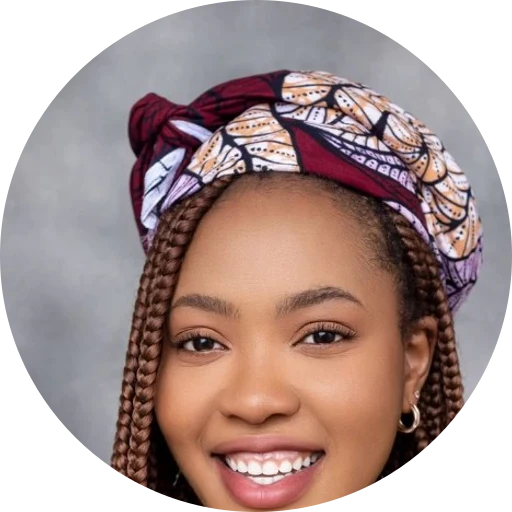
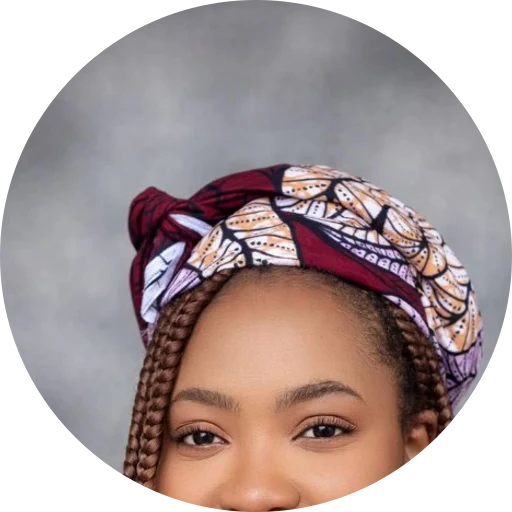
feat(dona): show Captain Dona portrait with Affisell badge in widgets
Add badge-aware portrait assets and use them in FAB and chat headers so Dona displays her CAPTAIN DONA · AFFISELL identity, not a face-only crop.

diff --git a/components/dona/DonaCaptainWidget.tsx b/components/dona/DonaCaptainWidget.tsx
@@ -165,9 +165,10 @@ export function DonaCaptainWidget() {
             <div className="flex shrink-0 items-start justify-between border-b border-violet-500/30 bg-[#1A1A3D] px-4 py-3 md:rounded-t-2xl">
               <div className="flex min-w-0 items-start gap-2.5">
                 <DonaAvatarImage
-                  className="mt-0.5 size-9 shrink-0 rounded-full object-cover ring-2 ring-black/80"
+                  className="mt-0.5 h-[3.75rem] w-[2.65rem] shrink-0 rounded-xl object-cover object-top ring-2 ring-violet-400/50 shadow-[0_0_14px_rgba(124,58,237,0.3)]"
                   alt="Captain Dona"
                   loading="eager"
+                  variant="portrait"
                 />
                 <div>
                   <p className="text-sm font-semibold text-white">{headerTitle}</p>
@@ -203,9 +204,10 @@ export function DonaCaptainWidget() {
             <div ref={scrollRef} className="flex min-h-0 flex-1 flex-col gap-3 overflow-y-auto p-4">
               <div className="mr-auto max-w-[90%] rounded-2xl rounded-bl-sm border border-white/10 bg-[#1A1A3D] px-4 py-2.5 text-sm text-white">
                 <DonaAvatarImage
-                  className="mb-2 size-7 rounded-full object-cover ring-1 ring-black/60"
+                  className="mb-2 h-11 w-8 rounded-lg object-cover object-top ring-1 ring-violet-400/40"
                   alt=""
                   loading="lazy"
+                  variant="portrait"
                 />
                 {welcome}
               </div>
@@ -246,9 +248,10 @@ export function DonaCaptainWidget() {
                               className="mr-auto max-w-[90%] rounded-2xl rounded-bl-sm border border-white/10 bg-[#1A1A3D] px-4 py-2.5 text-sm text-white"
                             >
                               <DonaAvatarImage
-                                className="mb-2 size-7 rounded-full object-cover ring-1 ring-black/60"
+                                className="mb-2 size-7 rounded-full object-cover object-top ring-1 ring-violet-400/30"
                                 alt=""
                                 loading="lazy"
+                                variant="circle"
                               />
                               {part.text}
                             </div>
@@ -308,13 +311,14 @@ export function DonaCaptainWidget() {
         <button
           type="button"
           onClick={() => setIsOpen(true)}
-          className="affisell-dona-fab fixed z-[109] flex size-14 items-center justify-center overflow-hidden rounded-full border-2 border-black bg-[#0E0E2C] shadow-[0_0_18px_rgba(124,58,237,0.35)] transition hover:border-violet-400 max-md:active:scale-95"
+          className="affisell-dona-fab affisell-dona-fab-portrait fixed z-[109] flex h-[4.75rem] w-[3.35rem] items-stretch justify-center overflow-hidden rounded-2xl border-2 border-violet-400/70 bg-[#0E0E2C] shadow-[0_0_22px_rgba(124,58,237,0.45)] transition hover:border-violet-300 max-md:active:scale-95"
           aria-label={openFabAria}
         >
           <DonaAvatarImage
-            className="size-full rounded-full object-cover"
+            className="size-full object-cover object-top"
             alt="Captain Dona"
             loading="lazy"
+            variant="portrait"
           />
           <span className="absolute -right-1 -top-1 rounded-full bg-black px-1.5 py-0.5 text-[8px] font-bold uppercase tracking-wide text-white">
             {fabBadge}

diff --git a/components/dona/dona-avatar-image.tsx b/components/dona/dona-avatar-image.tsx
@@ -6,21 +6,48 @@ import { cn } from "@/lib/utils"
 
 import donaAvatarCircleAsset from "../../public/dona-avatar-circle.webp"
 import donaAvatarCircle2xAsset from "../../public/dona-avatar-circle@2x.webp"
+import donaAvatarPortraitAsset from "../../public/dona-avatar-portrait.webp"
+import donaAvatarPortrait2xAsset from "../../public/dona-avatar-portrait@2x.webp"
 
 function bundledAssetSrc(asset: string | { src: string }): string {
   return typeof asset === "string" ? asset : asset.src
 }
 
-/** Bundled + public path — works even when proxy skipped static files before fix. */
+/** Face-only — chat micro bubbles. */
 export const DONA_AVATAR_CIRCLE_SRC = bundledAssetSrc(donaAvatarCircleAsset)
 export const DONA_AVATAR_CIRCLE_2X_SRC = bundledAssetSrc(donaAvatarCircle2xAsset)
 export const DONA_AVATAR_CIRCLE_SRCSET = `${DONA_AVATAR_CIRCLE_SRC} 1x, ${DONA_AVATAR_CIRCLE_2X_SRC} 2x`
+
+/** Full portrait with CAPTAIN DONA · AFFISELL badge — FAB + headers. */
+export const DONA_AVATAR_PORTRAIT_SRC = bundledAssetSrc(donaAvatarPortraitAsset)
+export const DONA_AVATAR_PORTRAIT_2X_SRC = bundledAssetSrc(donaAvatarPortrait2xAsset)
+export const DONA_AVATAR_PORTRAIT_SRCSET = `${DONA_AVATAR_PORTRAIT_SRC} 1x, ${DONA_AVATAR_PORTRAIT_2X_SRC} 2x`
+
+export type DonaAvatarVariant = "portrait" | "circle"
+
+const VARIANT_ASSETS: Record<
+  DonaAvatarVariant,
+  { src: string; srcSet: string; warnLabel: string }
+> = {
+  portrait: {
+    src: DONA_AVATAR_PORTRAIT_SRC,
+    srcSet: DONA_AVATAR_PORTRAIT_SRCSET,
+    warnLabel: "portrait asset missing — emoji fallback",
+  },
+  circle: {
+    src: DONA_AVATAR_CIRCLE_SRC,
+    srcSet: DONA_AVATAR_CIRCLE_SRCSET,
+    warnLabel: "circle asset missing — emoji fallback",
+  },
+}
 
 type DonaAvatarImageProps = {
   className?: string
   alt?: string
   loading?: "lazy" | "eager"
   fallbackClassName?: string
+  /** portrait = badge visible (default) · circle = face-only micro bubbles */
+  variant?: DonaAvatarVariant
 }
 
 /** Avatar with 💜 fallback when the asset fails to load. */
@@ -29,8 +56,10 @@ export function DonaAvatarImage({
   alt = "",
   loading = "lazy",
   fallbackClassName,
+  variant = "portrait",
 }: DonaAvatarImageProps) {
   const [failed, setFailed] = useState(false)
+  const assets = VARIANT_ASSETS[variant]
 
   if (failed) {
     return (
@@ -46,14 +75,14 @@ export function DonaAvatarImage({
   return (
     // eslint-disable-next-line @next/next/no-img-element -- bundled static asset + onError fallback
     <img
-      src={DONA_AVATAR_CIRCLE_SRC}
-      srcSet={DONA_AVATAR_CIRCLE_SRCSET}
+      src={assets.src}
+      srcSet={assets.srcSet}
       alt={alt}
       loading={loading}
       decoding="async"
       className={className}
       onError={() => {
-        console.warn("[dona-avatar] circle asset missing — emoji fallback")
+        console.warn("[dona-avatar]", assets.warnLabel)
         setFailed(true)
       }}
     />

diff --git a/components/dona/DonaPublicWidget.tsx b/components/dona/DonaPublicWidget.tsx
@@ -115,9 +115,10 @@ export function DonaPublicWidget() {
             <div className="flex shrink-0 items-center justify-between border-b border-white/10 bg-[#1A1A3D] px-4 py-3 md:rounded-t-2xl">
               <div className="flex min-w-0 items-center gap-2">
                 <DonaAvatarImage
-                  className="size-8 shrink-0 rounded-full object-cover ring-1 ring-violet-400/40"
+                  className="h-14 w-10 shrink-0 rounded-xl object-cover object-top ring-1 ring-violet-400/40 shadow-[0_0_12px_rgba(124,58,237,0.25)]"
                   alt="Dona"
                   loading="eager"
+                  variant="portrait"
                 />
                 <div>
                   <p className="text-sm font-semibold text-white">{copy.headerTitle}</p>
@@ -139,9 +140,10 @@ export function DonaPublicWidget() {
             <div ref={scrollRef} className="flex min-h-0 flex-1 flex-col gap-3 overflow-y-auto p-4">
               <div className="mr-auto max-w-[85%] rounded-2xl rounded-bl-sm border border-white/10 bg-[#1A1A3D] px-4 py-2.5 text-sm leading-relaxed text-white">
                 <DonaAvatarImage
-                  className="mb-2 size-7 rounded-full object-cover"
+                  className="mb-2 h-11 w-8 rounded-lg object-cover object-top ring-1 ring-violet-400/30"
                   alt=""
                   loading="lazy"
+                  variant="portrait"
                 />
                 {welcome}
                 <span className="mt-1 block text-[10px] text-white/40">{formatDonaTime(new Date())}</span>
@@ -199,13 +201,14 @@ export function DonaPublicWidget() {
         <button
           type="button"
           onClick={() => setIsOpen(true)}
-          className="affisell-dona-fab fixed z-[99] flex size-14 items-center justify-center overflow-hidden rounded-full border-2 border-white bg-[#7C3AED] shadow-xl ring-2 ring-violet-200 transition hover:scale-105 hover:bg-violet-500 max-md:active:scale-95"
+          className="affisell-dona-fab affisell-dona-fab-portrait fixed z-[99] flex h-[4.75rem] w-[3.35rem] items-stretch justify-center overflow-hidden rounded-2xl border-2 border-white bg-[#7C3AED] shadow-xl ring-2 ring-violet-200 transition hover:scale-105 hover:bg-violet-500 max-md:active:scale-95"
           aria-label={copy.openFabAria}
         >
           <DonaAvatarImage
-            className="size-full rounded-full object-cover"
+            className="size-full object-cover object-top"
             alt="Dona"
             loading="lazy"
+            variant="portrait"
           />
           <span
             className="absolute bottom-1 right-1 size-3 animate-pulse rounded-full border-2 border-white bg-green-400"

diff --git a/components/dona/dona-chat-ui.tsx b/components/dona/dona-chat-ui.tsx
@@ -64,7 +64,12 @@ export function DonaUserBubble({ text }: { text: string }) {
 export function DonaAssistantBubble({ text }: { text: string }) {
   return (
     <div className="mr-auto max-w-[85%] rounded-2xl rounded-bl-sm border border-white/10 bg-[#1A1A3D] px-4 py-2.5 text-sm leading-relaxed text-white">
-      <DonaAvatarImage className="mb-2 size-7 rounded-full object-cover" alt="" loading="lazy" />
+      <DonaAvatarImage
+        className="mb-2 size-7 rounded-full object-cover object-top"
+        alt=""
+        loading="lazy"
+        variant="circle"
+      />
       <DonaLinkifiedText text={text} />
       <span className="mt-1 block text-[10px] text-white/40">{formatDonaTime(new Date())}</span>
     </div>
@@ -78,7 +83,12 @@ export function DonaAssistantMessage({ message }: { message: UIMessage }) {
 
   return (
     <div className="mr-auto max-w-[85%] rounded-2xl rounded-bl-sm border border-white/10 bg-[#1A1A3D] px-4 py-2.5 text-sm leading-relaxed text-white">
-      <DonaAvatarImage className="mb-2 size-7 rounded-full object-cover" alt="" loading="lazy" />
+      <DonaAvatarImage
+        className="mb-2 size-7 rounded-full object-cover object-top"
+        alt=""
+        loading="lazy"
+        variant="circle"
+      />
       {hasText ? <DonaLinkifiedText text={text} /> : null}
       {toolParts.length > 0 ? <DonaProductToolsRail parts={toolParts} /> : null}
       <span className="mt-1 block text-[10px] text-white/40">{formatDonaTime(new Date())}</span>

diff --git a/lib/__tests__/public-static-asset-path.test.ts b/lib/__tests__/public-static-asset-path.test.ts
@@ -5,6 +5,7 @@ import { isPublicStaticAssetPath } from "@/lib/public-static-asset-path"
 describe("isPublicStaticAssetPath", () => {
   it("detects public root assets", () => {
     expect(isPublicStaticAssetPath("/dona-avatar-circle.webp")).toBe(true)
+    expect(isPublicStaticAssetPath("/dona-avatar-portrait.webp")).toBe(true)
     expect(isPublicStaticAssetPath("/favicon-32.png")).toBe(true)
     expect(isPublicStaticAssetPath("/icons/pwa-192.png")).toBe(true)
   })

diff --git a/app/globals.css b/app/globals.css
@@ -443,6 +443,12 @@ body.affisell-demo-lab .affisell-header-shell {
     bottom: 1.5rem;
     right: 1.5rem;
   }
+
+  .affisell-dona-fab-portrait {
+    box-shadow:
+      0 0 0 1px rgb(167 139 250 / 0.35),
+      0 12px 32px rgb(76 29 149 / 0.45);
+  }
 }
 
 @layer components {
